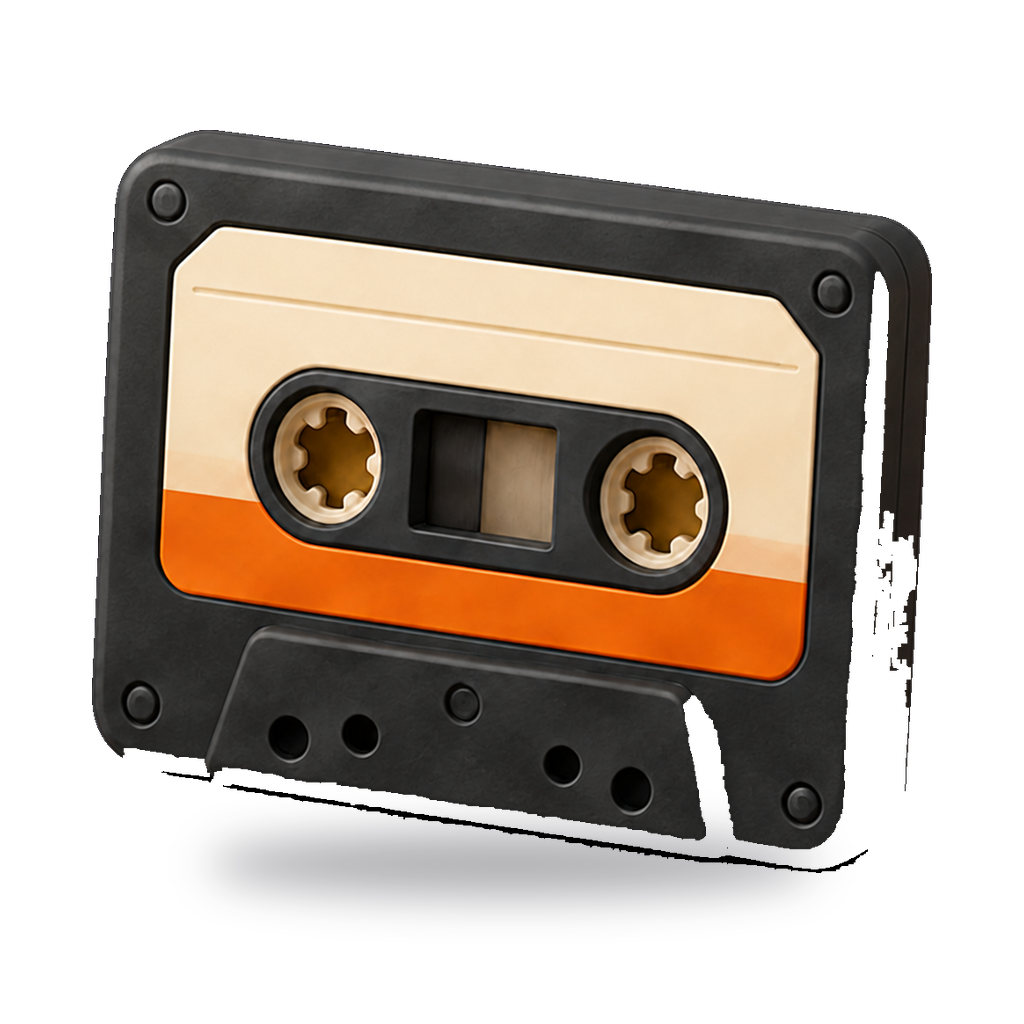
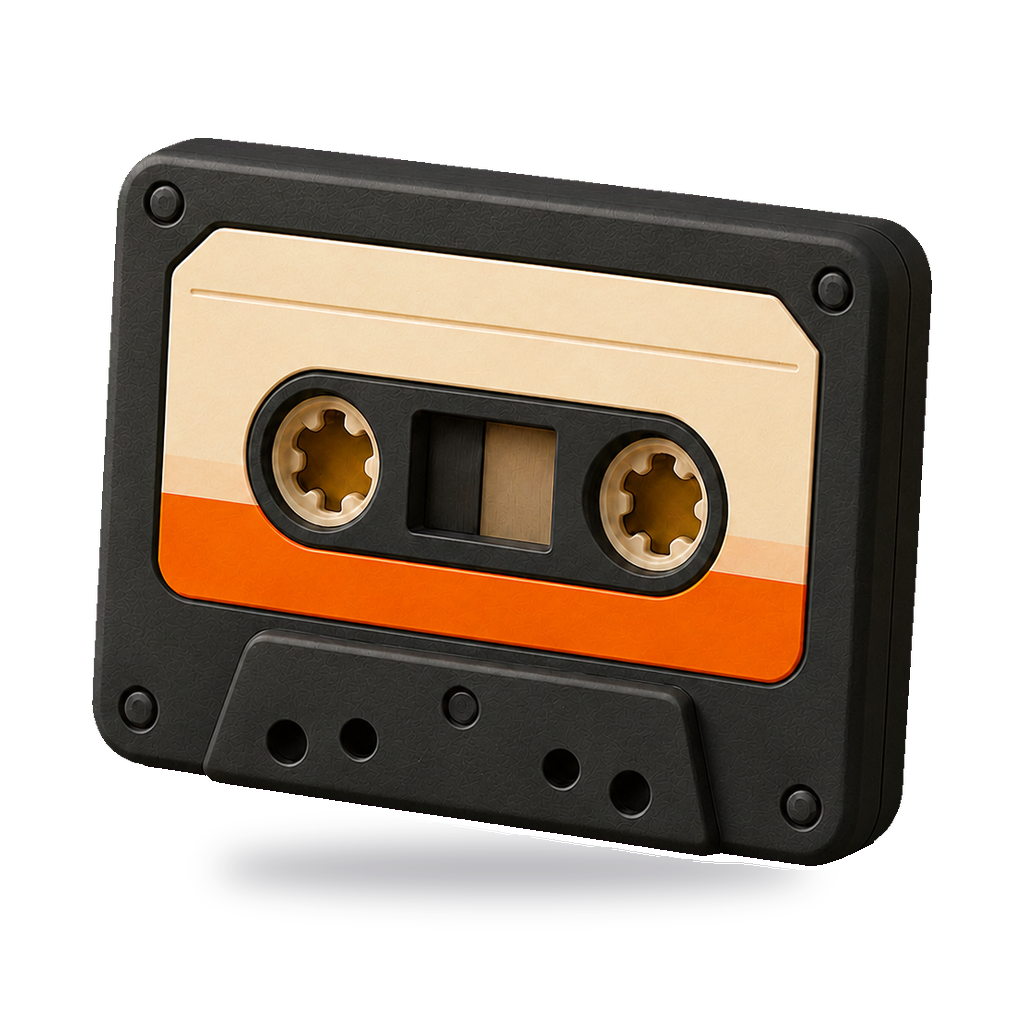
Eigene Klaenge fuer die vier CozyGame-Slots, plus Kassette und Wecker
Wolf: „ja mach mal eigene klaenge."

Alle vier bestanden aus reinen tone()-Aufrufen, also aus je EINEM Oszillator
ohne Anschlag. Genau die Bauart, die Wolf als „flach, generisch, technisch"
beschrieben hat. Jetzt ueber anschlag() und koerperTon(), und der Leitgedanke
ist pro Klang der physikalische Vorgang, nicht die Melodie:

  Tick  ein Stift schnippt an einem Zapfen vorbei -> Transient, kaum Ton
  Stop  der Zeiger rastet ein                     -> Anschlag + Nachklang
  Intro jemand klopft an, Erwartung steigt        -> Klopfen + Aufstieg
  Start Startsignal                               -> Schlag + Dreiklang

Zwei Entscheidungen, die nicht Geschmack sind:

* Der Tick war ein 50-ms-Dreieckston auf 350 bis 380 Hz. Das ist eine NOTE,
  deshalb klang das drehende Rad wie ein Metronom. Jetzt traegt der Anschlag
  das Ereignis und der Ton ist nur noch 30 ms Nachhall. Streuung von 4 auf
  9 %, weil der Tick beim Drehen rund hundert Mal hintereinander laeuft.
* Der Stop-Dreiklang stieg AUF, mit 60 ms Versatz je Ton. Aufsteigend heisst
  „es geht weiter" - die Aussage einer Eroeffnung, nicht die eines Halts. Hier
  rastet der Zeiger ein, das ist eine Ankunft. Der Akkord wird jetzt
  angeschlagen (alle drei innerhalb von 16 ms) statt buchstabiert, mit einem
  tiefen D darunter. D-Dur bleibt, das ist der Marken-Dreiklang.

Neu: scripts/klang-messen.mjs. Rendert jeden Klang in einen
OfflineAudioContext und zaehlt Spitze, Abtastwerte ueber Vollausschlag,
[…]

diff --git a/frontend/src/utils/sounds.ts b/frontend/src/utils/sounds.ts
@@ -283,7 +283,14 @@ function getWarmBus(ac: AudioContext): GainNode {
  * Ein schoener Hall um einen nackten Sinus bleibt ein nackter Sinus im Hall.
  */
 
-/** Anschlag: sehr kurzes gefiltertes Rauschen. Gibt dem Ton einen Koerper. */
+/**
+ * Anschlag: sehr kurzes gefiltertes Rauschen. Gibt dem Ton einen Koerper.
+ *
+ * ACHTUNG bei `farbe`: der warme Bus haengt einen Tiefpass bei 2400 Hz
+ * dazwischen. Alles darueber wird weggeschnitten. Am 25.08. beim Messen
+ * aufgefallen - der Rad-Tick stand auf 3200 Hz und kam mit Spitze 0,007
+ * heraus, also praktisch lautlos. Farben zwischen 700 und 2000 Hz.
+ */
 function anschlag(
   startTime: number,
   dauer = 0.012,
@@ -1423,28 +1430,50 @@ export function playRoundStart()    { playSlotOneShot('roundStart'); }
 // 2026-05-17 (P1 #5): CozyGames Sound-Trigger.
 // Tick = kurzer pointer-Klick. Stop = Final-Snap (Bell/Chime). Start = Cue.
 // Slot-Custom-Upload via QQSoundConfig hat Vorrang, sonst Synth-Fallback.
+//
+// 2026-08-25 (Wolf: „ja mach mal eigene klaenge"). Alle vier bestanden bis
+// hierher aus reinen `tone()`-Aufrufen, also aus je EINEM Oszillator ohne
+// Anschlag. Das ist genau die Bauart, die Wolf am 25.08. als „flach, generisch,
+// technisch" beschrieben hat. Sie laufen jetzt ueber `anschlag` und
+// `koerperTon` (Begruendung an deren Definition weiter oben).
+//
+// Der Leitgedanke pro Klang ist der physikalische Vorgang, nicht die Melodie:
+//   Tick  = ein Stift schnippt an einem Zapfen vorbei  -> Transient, kaum Ton
+//   Stop  = der Zeiger rastet ein                      -> harter Anschlag + Nachklang
+//   Intro = jemand klopft an, dann steigt die Erwartung-> Klopfen + Aufstieg
+//   Start = Startsignal                                -> Schlag + Dreiklang
 
 export function playCozyGameIntro(): void {
   if (_sfxMuted) return; // 2026-07-30 Sound-Audit R1: Synth-only-Slot respektiert Mute
   if (!isSlotEnabled('cozyGameIntro')) return;
   const url = resolveSlotUrl('cozyGameIntro');
   if (url) { playUrlOneShot(url); return; }
-  // 2026-05-19 (Wolf): Anticipation-Chime beim 🪅-Pinata-Mount. Soll Lust
-  // auf das Mini-Spiel machen ohne den eigentlichen Spin-Moment zu klauen.
-  // Charakter: warmer Wood-Knock ("Pinata wackelt") + zarter aufsteigender
-  // Bell-Glissando — F4 → A4 → C5 → F5-Sparkle. Bewusst leiser als wheel-
-  // stop/card-reveal, damit Choreo gestaffelt wirkt: leise → laut → laut.
+  // 2026-05-19 (Wolf): Anticipation-Chime. Soll Lust auf das Mini-Spiel machen,
+  // ohne den eigentlichen Spin-Moment zu klauen. Bewusst leiser als
+  // wheel-stop/card-reveal, damit die Choreographie gestaffelt bleibt:
+  // leise → laut → laut. Der Aufstieg F-A-C stimmt hier, anders als beim Stop:
+  // dies ist eine Ankuendigung, und die darf steigen.
+  //
+  // 2026-08-25: das „Wood-Knock" war ein 180-Hz-Sinus. Ein Sinus ist keine
+  // Holzoberflaeche, sondern eine reine Schwingung - deshalb klang das Klopfen
+  // wie ein Brummen. Jetzt traegt ein gefilterter Anschlag das Klopfen, und
+  // jede Stufe des Aufstiegs bekommt einen eigenen kleinen Anschlag. Ohne den
+  // beginnt jeder Ton aus dem Nichts, und genau das hoert man als „technisch".
   const ac = getCtx();
   if (!ac) return;
   const t = ac.currentTime;
-  // Wood-Knock (kurzer Bass-Thud)
-  tone(180, 'sine',     t,        0.18, 0.12, 0.004, 0.05, ac);
-  // Bell-Glissando aufsteigend
-  tone(349.23, 'triangle', t + 0.10, 0.08, 0.22, 0.01, 0.10, ac); // F4
-  tone(440.00, 'triangle', t + 0.20, 0.08, 0.24, 0.01, 0.10, ac); // A4
-  tone(523.25, 'sine',     t + 0.30, 0.10, 0.30, 0.01, 0.14, ac); // C5
-  // High-Bell-Sparkle obenauf
-  tone(1396.9, 'sine',     t + 0.40, 0.06, 0.30, 0.005, 0.16, ac); // F6
+  // Klopfen: der Anschlag ist das Klopfen, der Ton nur sein Ausklang.
+  anschlag(t, 0.022, 0.090, 700, ac);
+  koerperTon(174.61, t, 0.17, 0.095, 0.003, 0.11, ac); // F3
+  // Aufstieg F4 - A4 - C5, jede Stufe angeschlagen.
+  const stufen = [349.23, 440.00, 523.25];
+  for (let i = 0; i < stufen.length; i++) {
+    const zeit = t + 0.12 + i * 0.10;
+    anschlag(zeit, 0.008, 0.055, 1900, ac);
+    koerperTon(streu(stufen[i], 0.008), zeit, 0.26 + i * 0.05, 0.100, 0.004, 0.17, ac);
+  }
+  // Funkeln obendrauf, F6. Kein Anschlag: das soll schweben, nicht schlagen.
+  tone(1396.9, 'sine', t + 0.42, 0.30, 0.045, 0.006, 0.22, ac);
 }
 
 export function playCozyGameWheelTick(): void {
@@ -1452,15 +1481,19 @@ export function playCozyGameWheelTick(): void {
   if (!isSlotEnabled('cozyGameWheelTick')) return;
   const url = resolveSlotUrl('cozyGameWheelTick');
   if (url) { playUrlOneShot(url); return; }
-  // 2026-05-17: triangle 360Hz mit weichem Decay (satter Wood-Click).
-  // 2026-05-19 (Wolf 'spinning wheel sound?'): gain 0.015 war nahezu lautlos
-  // gegenueber Confetti/Voice. Auf 0.05 (3.3x) + leichte Pitch-Variation pro
-  // Tick (350-380Hz) damit Spin-Sequenz lebendiger wirkt statt monoton.
+  // 2026-08-25: der Tick war ein 50-ms-Dreieckston auf 350 bis 380 Hz. Das ist
+  // eine NOTE, und deshalb klang das drehende Rad wie ein Metronom. Ein Zapfen,
+  // an dem ein Stift vorbeischnippt, ist zuerst ein Knacken und erst danach
+  // ganz kurz ein Ton. Also traegt jetzt der Anschlag das Ereignis, und der
+  // Ton ist nur noch der Nachhall von 30 Millisekunden.
+  //
+  // Streuung hochgesetzt auf 9 %: der Tick laeuft beim Drehen rund hundert Mal
+  // hintereinander. Bei 4 % hoert das Ohr immer noch dieselbe Aufnahme.
   const ac = getCtx();
   if (!ac) return;
   const t = ac.currentTime;
-  const pitch = 350 + Math.random() * 30;
-  tone(pitch, 'triangle', t, 0.05, 0.055, 0.001, 0.02, ac);
+  anschlag(t, 0.006, 0.30, streu(1900, 0.16), ac);
+  koerperTon(streu(520, 0.09), t + 0.001, 0.034, 0.090, 0.001, 0.020, ac);
 }
 
 export function playCozyGameWheelStop(): void {
@@ -1468,16 +1501,25 @@ export function playCozyGameWheelStop(): void {
   if (!isSlotEnabled('cozyGameWheelStop')) { playWinnerCardReveal(); return; }
   const url = resolveSlotUrl('cozyGameWheelStop');
   if (url) { playUrlOneShot(url); return; }
-  // 2026-05-17 (Wolf): Triade reicht — die zusätzliche playFanfare-Layerung
-  // im CozyGameView ist raus (siehe dort). Triade selbst leicht warmer/voller
-  // mit längerem Decay für „angekommen"-Feeling.
+  // 2026-08-25: der Dreiklang stieg AUF (587, dann 740, dann 880, je 60 ms
+  // versetzt). Aufsteigend heisst „es geht weiter" - das ist die Aussage einer
+  // Eroeffnung, nicht die eines Halts. Hier rastet der Zeiger ein, und das ist
+  // eine ANKUNFT. Also wird der Akkord angeschlagen statt buchstabiert: die
+  // drei Toene kommen innerhalb von 16 ms, mit einem dumpfen Anschlag davor
+  // (das Einrasten selbst) und einem tiefen D darunter, damit die Ankunft
+  // Gewicht hat. D-Dur bleibt, das ist der Marken-Dreiklang.
   const ac = getCtx();
   if (!ac) return;
   const t = ac.currentTime;
-  // Aufsteigende Triade D-F#-A (Wolf-Brand-Sound) mit längerem Tail
-  tone(587, 'triangle', t,        0.10, 0.32, 0.008, 0.12, ac);
-  tone(740, 'triangle', t + 0.06, 0.10, 0.30, 0.008, 0.12, ac);
-  tone(880, 'sine',     t + 0.12, 0.12, 0.28, 0.008, 0.16, ac);
+  // Das Einrasten. Tiefer und laenger als der Tick, denn hier steht etwas still.
+  anschlag(t, 0.020, 0.095, 850, ac);
+  // Grundton D3 als Boden. Beamer-Lautsprecher schneiden viel davon weg, was
+  // uebrig bleibt, traegt trotzdem.
+  tone(146.83, 'sine', t, 0.34, 0.085, 0.004, 0.24, ac);
+  // Der Akkord, praktisch gleichzeitig.
+  koerperTon(587.33, t + 0.004, 0.44, 0.150, 0.004, 0.32, ac); // D5
+  tone(739.99, 'triangle', t + 0.010, 0.42, 0.105, 0.004, 0.30, ac); // F#5
+  koerperTon(880.00, t + 0.016, 0.48, 0.095, 0.004, 0.36, ac); // A5
 }
 
 export function playCozyGameStart(): void {
@@ -1486,14 +1528,21 @@ export function playCozyGameStart(): void {
   const url = resolveSlotUrl('cozyGameStart');
   if (url) { playUrlOneShot(url); return; }
   // 2026-05-17 (Wolf): Doppel-Bell wirkte zu zart für „GO!"-Moment. Jetzt
-  // 3-Ton-Arpeggio C-E-G aufsteigend (positiver Start-Cue) mit triangle-
-  // Wave für warm-energetisches „Spiel los"-Gefühl.
+  // 3-Ton-Arpeggio C-E-G aufsteigend (positiver Start-Cue).
+  //
+  // 2026-08-25: das Arpeggio bleibt, es ist die richtige Geste fuer „los".
+  // Was fehlte, war der Startschuss davor - drei Toene ohne Anschlag sind eine
+  // Melodie, kein Signal. Dazu ein Grundton C3 darunter, damit der Moment
+  // Koerper hat, und die Staffelung von 80 auf 55 ms enger: bei 80 ms hoert
+  // man drei Ereignisse, bei 55 ms eine Geste.
   const ac = getCtx();
   if (!ac) return;
   const t = ac.currentTime;
-  tone(523, 'triangle', t,        0.10, 0.20, 0.008, 0.10, ac); // C5
-  tone(659, 'triangle', t + 0.08, 0.10, 0.22, 0.008, 0.10, ac); // E5
-  tone(784, 'sine',     t + 0.16, 0.14, 0.26, 0.008, 0.14, ac); // G5 (sine = bell-tail)
+  anschlag(t, 0.014, 0.100, 1600, ac);
+  tone(130.81, 'sine', t, 0.28, 0.095, 0.004, 0.20, ac); // C3 als Boden
+  koerperTon(523.25, t,         0.22, 0.135, 0.004, 0.12, ac); // C5
+  koerperTon(659.25, t + 0.055, 0.25, 0.125, 0.004, 0.15, ac); // E5
+  koerperTon(783.99, t + 0.110, 0.36, 0.135, 0.004, 0.24, ac); // G5
 }
 // BC-2: Music-Ducking fuer Game-Over-Cue (laut + dramatisch).
 // 2026-05-23 (Wolf): playGameOver entfernt — nirgends aufgerufen (startGameOverLoop

diff --git a/frontend/src/cozyquizAvatars.ts b/frontend/src/cozyquizAvatars.ts
@@ -154,7 +154,7 @@ export const COZYQUIZ_FILL: Record<string, number> = {
   'book': 0.92,
   'camera': 0.80,
   'candle': 0.92,
-  'cassette': 0.80,
+  'cassette': 0.78,
   'cheese': 0.84,
   'cloud': 0.89,
   'compass': 0.92,
@@ -198,7 +198,6 @@ export const COZYQUIZ_FILL: Record<string, number> = {
 export const COZYQUIZ_NUDGE: Record<string, [number, number]> = {
   'binoculars': [-2.2, 0.1],
   'candle': [0.1, -2.5],
-  'cassette': [1.0, 2.0],
   'controller': [-0.6, 2.2],
   'croissant': [2.5, 3.0],
   'hot-air-balloon': [0.1, 4.0],
